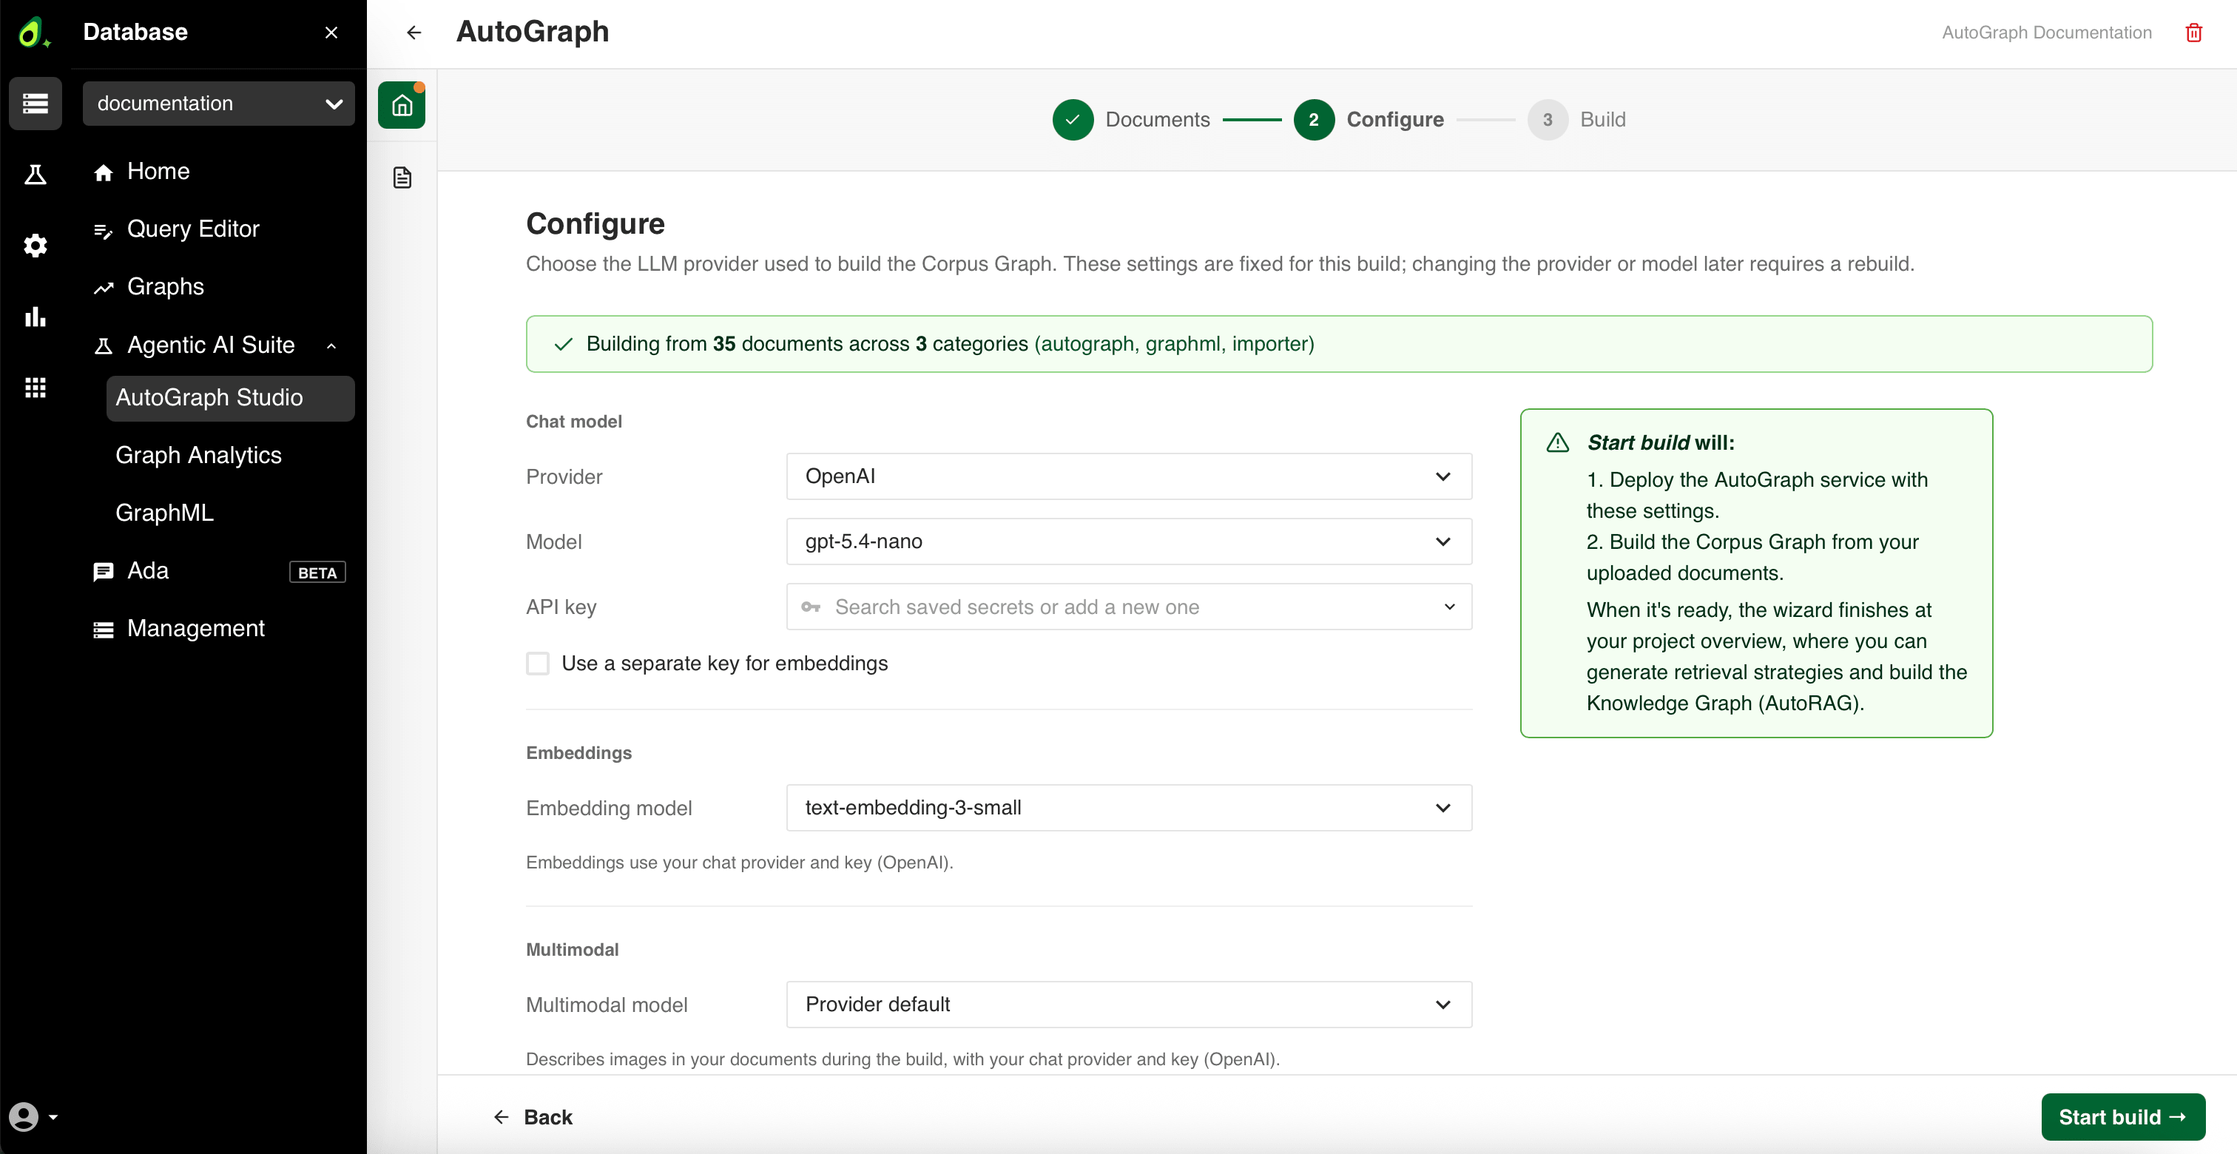
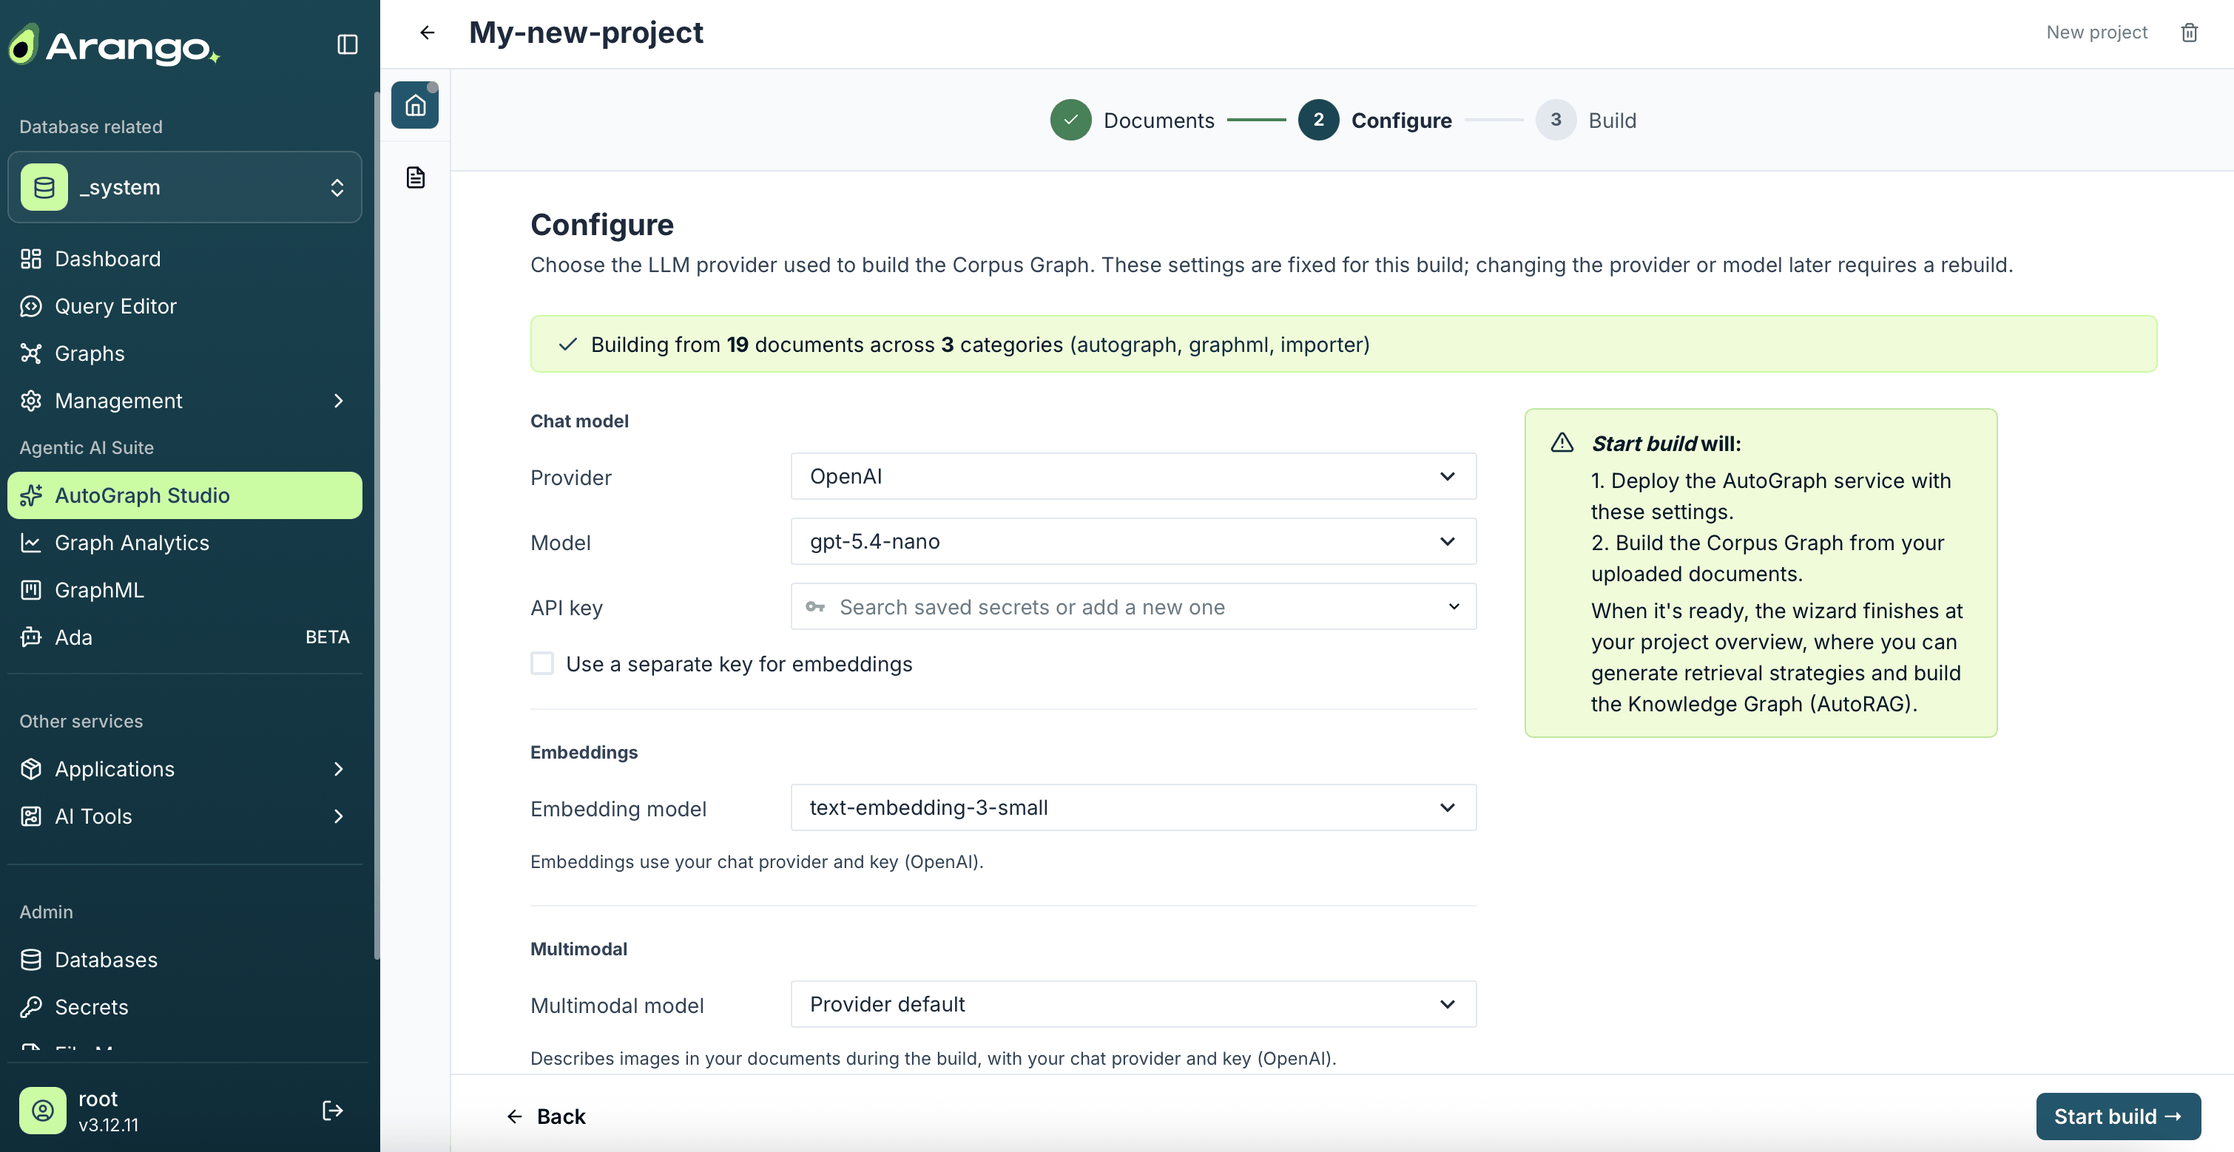
AIS-2328: Update docs for the new web interface sidebar
Update navigation steps across the Agentic AI Suite, Platform Suite, and
access control pages for the new sidebar sections (Database related, Agentic
AI Suite, Other services, Admin), and replace the Agentic AI Suite screenshots
with the new UI.

Also fix labels that changed in the UI: File Manager tabs and columns,
Container Manager Name field, Graph Analytics Start New Engine panel, GraphML
Profiles prediction option and Configuration section, AutoGraph Build step
states, retriever list states, and the trash icon for removing files.

diff --git a/site/content/platform-suite/secrets-manager.md b/site/content/platform-suite/secrets-manager.md
@@ -34,32 +34,29 @@ sidecar container for metadata that runs in the pod of the service. <!-- TODO: D
 
 ### Store a secret
 
-1. In the main navigation of the Arango Contextual Data Platform web interface, go to the
-   **Control Panel** ({{< icon "settings" >}}).
-2. Click **Secrets** in the navigation.
-3. Click **Add secret** in the top-right corner.
-4. In the **Create Secret** dialog, enter a **Name** to later reference the secret.
-5. The **Type** is fixed to `API_KEY` (generic API keys and tokens) for secrets
+1. In the **Admin** section of the Arango Contextual Data Platform sidebar,
+   click **Secrets**.
+2. Click **Add secret** in the top-right corner.
+3. In the **Create Secret** dialog, enter a **Name** to later reference the secret.
+4. The **Type** is fixed to `API_KEY` (generic API keys and tokens) for secrets
    created via the web interface. Other types can be created via the API.
-6. Enter the sensitive information (API key, password, or similar) into the
+5. Enter the sensitive information (API key, password, or similar) into the
    **Secret Data** field. Click the eye icon to show or hide the value.
-7. Optionally enter a **Description** to help identify the secret.
-8. Click **Create**.
+6. Optionally enter a **Description** to help identify the secret.
+7. Click **Create**.
 
 ### Edit a secret
 
-1. In the main navigation, go to the **Control Panel** ({{< icon "settings" >}}).
-2. Click **Secrets** in the navigation.
-3. In the **Actions** column, click the edit icon ({{< icon "edit-square" >}}).
-4. Adjust the information. To edit the **Secret Value**, click the toggle next to
+1. In the **Admin** section of the sidebar, click **Secrets**.
+2. In the **Actions** column, click the edit icon ({{< icon "edit-square" >}}).
+3. Adjust the information. To edit the **Secret Value**, click the toggle next to
    the label and then enter the new value.
-5. Click **Save Changes**.
+4. Click **Save Changes**.
 
 ### Delete a secret
 
-1. Go to the **Control Panel** ({{< icon "settings" >}}).
-2. Click **Secrets** in the navigation.
-3. Delete one or multiple secrets:
+1. In the **Admin** section of the sidebar, click **Secrets**.
+2. Delete one or multiple secrets:
    - In the **Actions** column, click the remove icon ({{< icon "delete" >}})
      and confirm by clicking **Delete**.
    - At the start of the row, tick the checkboxes of the secrets you want to
@@ -68,18 +65,17 @@ sidecar container for metadata that runs in the pod of the service. <!-- TODO: D
 
 ### Import secrets
 
-1. Go to the **Control Panel** ({{< icon "settings" >}}).
-2. Click **Secrets** in the navigation.
-3. Click the **Import** button in the top-right corner.
-4. In the **Import Secrets** dialog, you can **Paste JSON** from the clipboard
+1. In the **Admin** section of the sidebar, click **Secrets**.
+2. Click the **Import** button in the top-right corner.
+3. In the **Import Secrets** dialog, you can **Paste JSON** from the clipboard
    or go to the **Upload File** tab to select or drop a `.json` file. The file
    must contain a JSON array of secret profiles. You can inspect and edit
    uploaded data in the **Paste JSON** tab. Click **Load sample** to insert
    an example payload.
-5. Click **Validate & Preview**. Fix missing fields or syntax errors if necessary.
-6. Verify the data. You can remove ({{< icon "delete" >}}) individual rows to
+4. Click **Validate & Preview**. Fix missing fields or syntax errors if necessary.
+5. Verify the data. You can remove ({{< icon "delete" >}}) individual rows to
    exclude secrets from the import.
-7. Click **Import # Secret(s)**.
+6. Click **Import # Secret(s)**.
 
 ## API
 

diff --git a/site/content/agentic-ai-suite/autograph/web-interface.md b/site/content/agentic-ai-suite/autograph/web-interface.md
@@ -112,8 +112,6 @@ the project when you continue to the next step.
    progress reported as *Uploading `<N>` documents…*, and the wizard continues to
    the configuration step automatically.
 
-   ![The Documents step uploading the staged documents](../../images/autograph-ui-documents-uploading.png)
-
    The categories are listed with their file counts once the upload completes.
 
    ![The Documents step with three uploaded categories](../../images/autograph-ui-documents-uploaded.png)
@@ -127,7 +125,7 @@ you name the category yourself.
 
 In the **Configure** step, choose the LLM provider used to build the Corpus
 Graph. A banner confirms what you are building from, for example
-*Building from 35 documents across 3 categories*. A callout summarizes what
+*Building from 19 documents across 3 categories*. A callout summarizes what
 clicking **Start build** does: it deploys the AutoGraph service with these
 settings and builds the Corpus Graph from your uploaded documents. When it is
 ready, the wizard finishes at your project overview, where you can generate
@@ -194,13 +192,15 @@ For more details, see [LLM Configuration](llm-configuration.md).
 The **Build** step shows the two operations it performs. For details on what
 happens during the corpus build, see [Corpus Build](reference/corpus-build.md).
 
-1. **Deploy AutoGraph service**: The service is deployed and the interface waits
-   for it to respond, showing *Checking service status…* and
-   *Service deployed — waiting for it to respond. This might take up to 10
-   minutes.* The **AutoGraph service ID** is displayed, for example
-   `arangodb-autograph-hiojb`.
+1. **Deploy AutoGraph service**: The service is deployed, showing
+   *Deploying AutoGraph service…* and a **Running** status.
 
-   ![The Build step of the AutoGraph setup wizard waiting for the service](../../images/autograph-ui-build.png)
+   ![The Build step of the AutoGraph setup wizard deploying the service](../../images/autograph-ui-build.png)
+
+   The interface then waits for the service to respond, showing
+   *Checking service status…* and *Service deployed — waiting for it to
+   respond. This might take up to 10 minutes.* The **AutoGraph service ID** is
+   displayed, for example `arangodb-autograph-wdpdd`.
 
    Wait for the confirmation message **AutoGraph service deployed**.
 
@@ -468,8 +468,9 @@ Select the retriever to see its full service ID and an **initializing** to
 
 Select a retriever from the list to open its question composer and its past
 questions, then click **New question**. A retriever that has not answered
-anything yet is listed as *No runs yet*. Past questions are marked with the mode
-they ran in.
+anything yet is listed as *No runs yet*, and one that is still starting up as
+*Run history loads once the retriever is live*. Past questions are marked with
+the mode they ran in.
 
 {{< info >}}
 Until the service is ready to answer, a panel takes the place of the composer:
@@ -533,7 +534,7 @@ trust. It has the following views:
   entities and relationships the retriever traversed to assemble it. This is
   where a GraphRAG answer differs from a plain vector search: you see the
   connections that produced the answer, not just the matching text. The view
-  counts what it holds, for example *157 entities* and *265 relationships*.
+  counts what it holds, for example *207 entities* and *227 relationships*.
 
   ![The Graph view of the Provenance panel](../../images/autograph-ui-provenance-graph.png)
 

diff --git a/site/content/platform-suite/file-manager/_index.md b/site/content/platform-suite/file-manager/_index.md
@@ -52,21 +52,20 @@ metadata relates to file versions.
 
 ## Web interface
 
-The **File Manager Service** page lets you manage container service files and RAG
-input files from a single place.
+The **File Manager** page lets you manage uploaded packages and RAG input files
+from a single place.
 
 ### View files
 
 1. Log in to the Arango Contextual Data Platform web interface.
-2. Go to **Control Panel** in the main navigation sidebar and then
-   click **File Manager**.
+2. In the **Admin** section of the sidebar, click **File Manager**.
 3. Select the desired tab. The number of files in each tab is shown in
    parentheses next to the tab name:
-   - **Container Services**: Files uploaded for container service deployments,
-     grouped by service name. The table columns are **Service Name**,
+   - **Uploaded Packages**: Files uploaded for container service deployments,
+     grouped by package name. The table columns are **Package Name**,
      **Version**, **Language**, **Storage Location**, **Size**, **Status**, and
-     **Actions**. Services with multiple versions show the version count and
-     combined size below the service name. Click the expand arrow next to a
+     **Actions**. Packages with multiple versions show the version count and
+     combined size below the package name. Click the expand arrow next to a
      version to see its individual details.
    - **RAG Input Files**: Files uploaded for AutoGraph and Importer processing.
      Use the **Database** dropdown above the table to filter files by database.
@@ -86,7 +85,7 @@ running service. Files marked as **In use** cannot be deleted.
 
 A **File Deletion Policy** info box is displayed at the bottom of the page:
 
-- **Container Services**: Can only be deleted if not currently used by a running
+- **Uploaded Packages**: Can only be deleted if not currently used by a running
   service.
 - **RAG Input**: Can only be deleted if not currently in use by any service in
   the system.
@@ -94,8 +93,7 @@ A **File Deletion Policy** info box is displayed at the bottom of the page:
 To delete a file:
 
 1. Log in to the Arango Contextual Data Platform web interface.
-2. Go to **Control Panel** in the main navigation sidebar and then
-   click **File Manager**.
+2. In the **Admin** section of the sidebar, click **File Manager**.
 3. Go to the tab containing the file you want to delete.
 4. In the row of the desired item, click the delete icon ({{< icon "delete" >}})
    in the **Actions** column and confirm by clicking **Delete**.

diff --git a/site/content/platform-suite/container-manager/web-interface.md b/site/content/platform-suite/container-manager/web-interface.md
@@ -12,8 +12,7 @@ or by providing a Docker image URL.
 ## Access the Container Manager
 
 1. Log in to the Arango Contextual Data Platform web interface.
-2. Go to **Control Panel** in the main navigation sidebar and then
-   click **Container Manager**.
+2. In the **Admin** section of the sidebar, click **Container Manager**.
 3. The Container Manager opens with two tabs:
    - **Packages**: For deploying services from code packages and managing
      uploaded packages.
@@ -33,7 +32,7 @@ See [Package Your Code](package-code/) for instructions.
 1. Select the **Packages** tab.
 2. In the **Deploy new Service** panel, drag and drop your `.tar.gz` file
    into the upload area, or click to browse and select your file.
-3. Enter a **File name** for your service
+3. Enter a **Name** for your service
    (e.g., `ml-prediction-service`).
 4. Specify a **Version** using semantic versioning (e.g., `1.0.0`, `2.1.3`).
    This allows you to maintain multiple versions of the same service.
@@ -55,7 +54,7 @@ See [Package Your Code](package-code/) for instructions.
 To deploy a new version of an existing service:
 
 1. Follow the steps in [Deploy Service from a Code Package](#deploy-service-from-a-code-package).
-2. Use the same **File name** as the existing service.
+2. Use the same **Name** as the existing service.
 3. Provide a new **Version** number (e.g., increment from `1.0.0` to `1.1.0`).
 4. Upload the updated service package.
 5. Click **Deploy Service**.

diff --git a/site/content/platform-suite/container-manager/apps.md b/site/content/platform-suite/container-manager/apps.md
@@ -52,10 +52,11 @@ To keep assets and API calls working under the app's URL path, serve the UI at
 You register a service as an App at deploy time in the Container Manager web
 interface:
 
-1. Open the **Container Manager** (**Control Panel** → **Container Manager**).
+1. Open the **Container Manager** (**Admin** section of the sidebar →
+   **Container Manager**).
 2. Fill in the **Deploy new Service** panel for your service:
    - On the **Packages** tab, upload your `.tar.gz` code package and set the
-     file name, version, and base image.
+     name, version, and base image.
    - On the **Containers** tab, enter your Docker image URL.
 
    For the full list of fields, see
@@ -76,7 +77,8 @@ To register a service as an App programmatically, see
 
 Once your App is running, you can open it from the Apps catalog:
 
-1. In the Arango Platform web interface, open the **Apps** catalog.
+1. In the **Other services** section of the sidebar, expand **Applications**
+   and click **All apps** to open the **Apps** catalog.
 2. Search for your app by its **Display name**.
 3. Select the app to open it. Its UI is rendered embedded in the web interface.
 

diff --git a/site/content/agentic-ai-suite/graphml/ui.md b/site/content/agentic-ai-suite/graphml/ui.md
@@ -90,7 +90,7 @@ The featurization process has several configurable options, grouped into
 **Configuration** and **Advanced** settings. These are also shown in a JSON
 format on the right side of the modal for transparency.
 
-In the **Configuration** tab, you can control the overall featurization job and
+In the **Configuration** section, you can control the overall featurization job and
 how features are stored.
 - **Batch size**: The number of documents to process in a single batch.
 - **Profiles**: Add one or more profiles to specify pod configurations for the
@@ -258,6 +258,8 @@ Configure your prediction job with the following options:
   the prediction workload (e.g. `10`).
 - **Enable GPU**: Enables GPU-accelerated prediction using GPU-capable profiles
   configured for the project (e.g., `gpu-g4dn-xlarge`).
+- **Profiles**: Add one or more profiles to specify pod configurations for the
+  prediction job (e.g., `high-memory-xlarge`).
 
 ### Featurization options
 

diff --git a/site/content/agentic-ai-suite/private-llms/mlflow.md b/site/content/agentic-ai-suite/private-llms/mlflow.md
@@ -67,13 +67,14 @@ Platform web interface:
 
 1. Sign in to the Arango Contextual Data Platform web interface with your
    platform credentials. MLflow does not have a separate login.
-2. Expand **AI Tools** in the main navigation and click **MLFlow**.
+2. In the **Other services** section of the sidebar, expand **AI Tools** and
+   click **MLFlow**.
 
 {{< security >}}
 The MLflow route requires authentication. Opening
 `https://<EXTERNAL_ENDPOINT>:8529/mlflow/` directly in your browser is no longer
-possible. Use the **AI Tools** section of the Arango Contextual Data Platform
-web interface instead.
+possible. Use the **AI Tools** entry in the sidebar of the Arango Contextual
+Data Platform web interface instead.
 {{< /security >}}
 
 ### Programmatic access

diff --git a/site/content/contextual-data-platform/access-control/authentication.md b/site/content/contextual-data-platform/access-control/authentication.md
@@ -78,8 +78,7 @@ The login screen asks for the following:
 4. **Select a database**: the database you want to start in. Only the databases
    your account has access to are listed in the dropdown menu. You can quickly
    switch between databases later.
-5. Click **Log in** to get to the **Home** screen of the
-   Arango Contextual Data Platform web interface.
+5. Click **Log in** to open the Arango Contextual Data Platform web interface.
 
 What you can see and do in the database system is limited by the permissions of
 the user account you logged in with, see

diff --git a/site/content/agentic-ai-suite/ada/_index.md b/site/content/agentic-ai-suite/ada/_index.md
@@ -22,7 +22,8 @@ corresponding API key stored in the
 [Secrets Manager](../../platform-suite/secrets-manager.md).
 
 You access Ada from the Arango Contextual Data Platform web interface, using the
-**Ada** entry in the left sidebar. It is scoped to the
+**Ada** entry in the **Agentic AI Suite** section of the left sidebar. It is
+scoped to the
 database currently selected in the database selector at the top of the sidebar.
 The top bar shows the active database name alongside the LLM provider and model
 in use, for example `_system  openai/gpt-4.1`.

diff --git a/site/content/agentic-ai-suite/notebook-servers.md b/site/content/agentic-ai-suite/notebook-servers.md
@@ -38,8 +38,8 @@ The notebooks include the following:
 
 ## Quickstart
 
-1. In the Arango Contextual Data Platform web interface, expand **AI Tools** in the
-   main navigation and click **Notebook servers**.
+1. In the **Other services** section of the Arango Contextual Data Platform
+   sidebar, expand **AI Tools** and click **Notebook servers**.
 2. The page displays an overview of the notebook services.
    Click **New notebook server** to create a new one.
 3. After your notebook service has been deployed, you can click the ID to start

diff --git a/site/content/platform-suite/monitoring.md b/site/content/platform-suite/monitoring.md
@@ -28,8 +28,8 @@ additional configuration.
 
 You can access the monitoring dashboards from the Arango Contextual Data Platform web interface:
 
-1. Navigate to the **Monitoring** section in the main navigation menu.
-2. Select either **Grafana** or **Prometheus** from the sidebar.
+1. In the **Other services** section of the sidebar, expand **Monitoring**.
+2. Click **Grafana** or **Prometheus**.
 3. The selected monitoring dashboard loads in an embedded view within the
    Arango Contextual Data Platform interface.
 

diff --git a/site/content/platform-suite/graph-visualizer.md b/site/content/platform-suite/graph-visualizer.md
@@ -47,8 +47,8 @@ supported by the Graph Visualizer.
 ### Select and load a graph
 
 1. In the Arango Contextual Data Platform web interface, select the database your
-   named graph is stored in.
-2. Click **Graphs** in the main navigation.
+   named graph is stored in from the database selector at the top of the sidebar.
+2. In the **Database related** section of the sidebar, click **Graphs**.
 3. Select a graph from the list.
 4. The viewport of the Graph Visualizer opens for exploring the graph.
 
